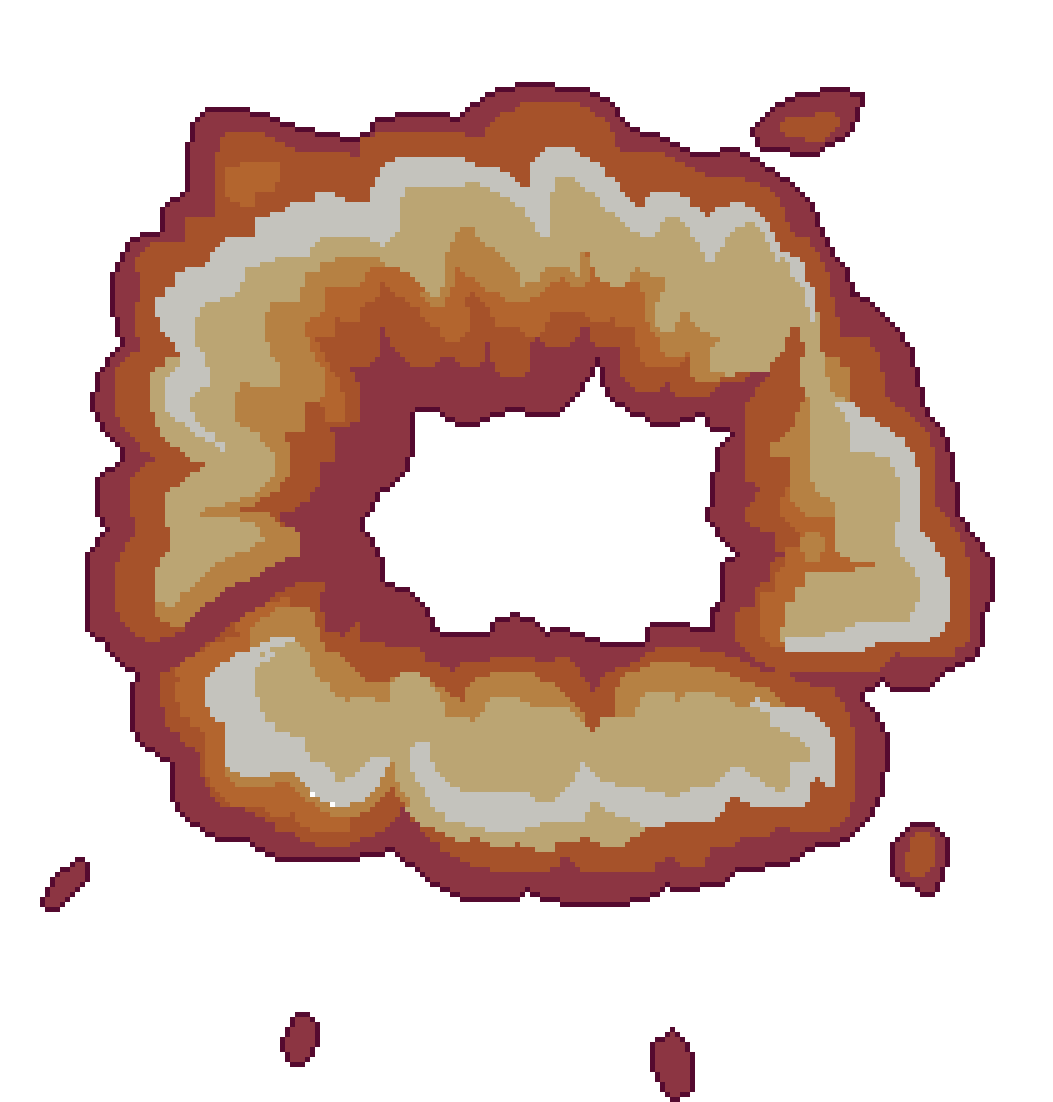
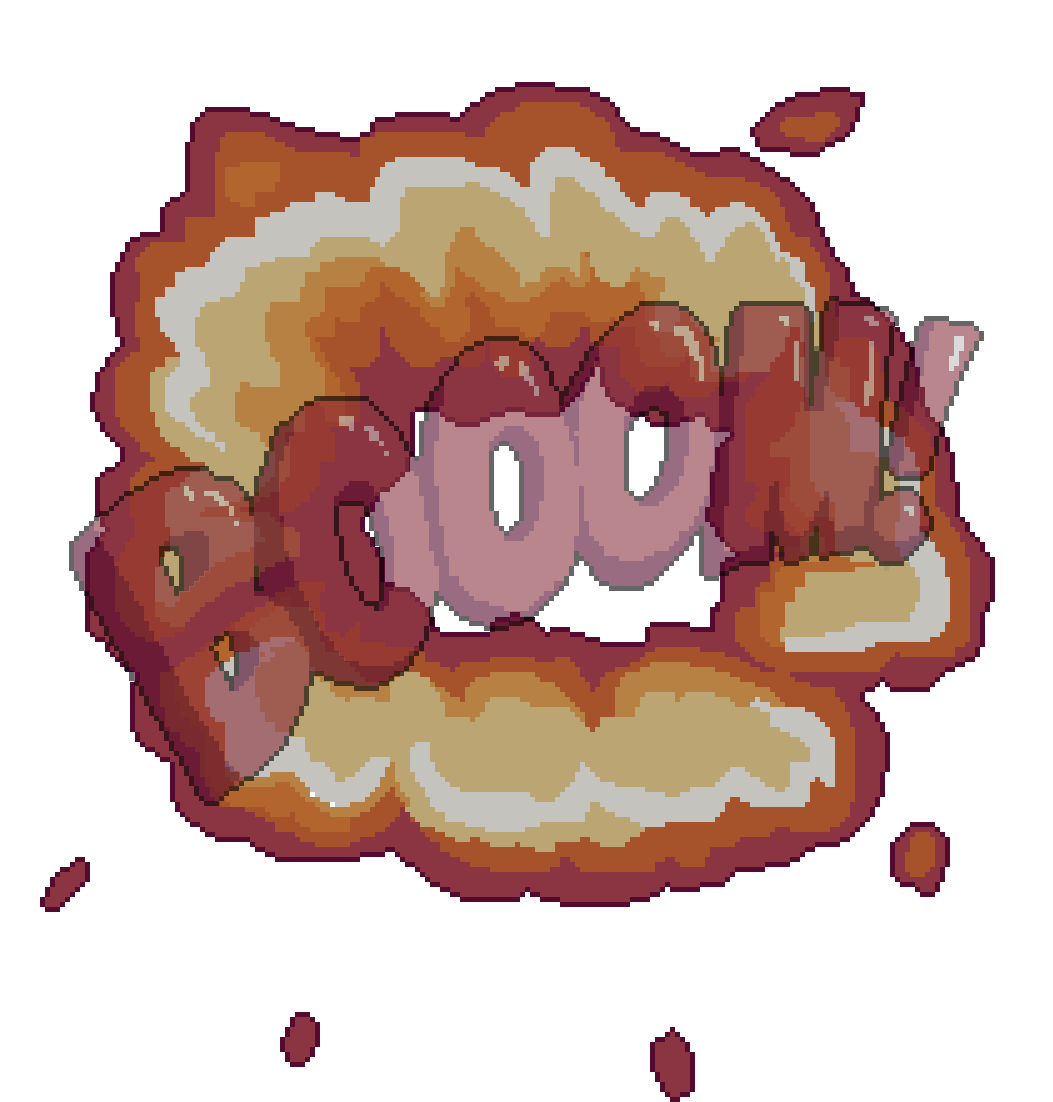
rules screen added & animations changed

Changed region(s): [[0.0608, 0.2468, 0.9421, 0.7405]]

diff --git a/index.html b/index.html
@@ -30,6 +30,9 @@
         <img class="button" src="images/button.png" alt="" onclick="game.run()">
     </div>
 </div>
+<div class="welcomescreen shown" onclick="game.welcomeScreenClosed = true;">
+    <img class="welcomescreen__content" src="images/rules-screen.png" alt="">
+</div>
 <script>
     //Aliases
     let Application = PIXI.Application,
@@ -62,7 +65,7 @@
         .add("images/bomb/1.png").add("images/bomb/2.png").add("images/bomb/3.png").add("images/bomb/4.png").add("images/bomb/5.png").add("images/bomb/6.png").add("images/bomb/7.png").add("images/bomb/8.png").add("images/bomb/9.png")
         .load(setup);
 
-    let beet, healthBar, sheet, enemies=[], barriers=[];
+    let beet, healthBar, sheet, enemies=[], barriers=[], coins=[];
     let left;
     let game = {
         on: true,
@@ -73,7 +76,8 @@
             // counter.toNull();
             location.reload();
         },
-        prewordShown: false
+        prewordShown: false,
+        welcomeScreenClosed: false
     };
     let metersCountStop = false;
 
@@ -130,7 +134,7 @@
 
 
         // coins settings
-        coins = new CoinsWord();
+
 
 
         // control settings
@@ -153,13 +157,17 @@
     }
 
     function checkCollision() {
-        coins.parts.forEach(function(c) {
-            if(hitRectangle(beet, c)) {
-                if (c.alpha) {counter.coinsPlus();}
-                c.alpha = 0;
-                return true;
-            }
-        });
+        for (let co of coins) {
+            co.parts.forEach(function (c) {
+                if (hitRectangle(beet, c)) {
+                    if (c.alpha) {
+                        counter.coinsPlus();
+                    }
+                    c.alpha = 0;
+                    return true;
+                }
+            });
+        }
         enemies.forEach(function(enemy) {
             if(hitRectangle(beet, enemy)) {
                 beet.playAnimation("bomb");
@@ -223,18 +231,28 @@
         checkCollision();
 
         for (let b of bg) { b.nextStep(beetXPlusFactor); }
-        coins.nextStep(beetXPlusFactor);
+        for (let c of coins) {
+            c.nextStep(beetXPlusFactor);
+        }
+
 
         if (!metersCountStop) { counter.metersPlus(); metersCountStop = true; setTimeout(() => {metersCountStop = false;}, 300) }
 
 
+        if (game.welcomeScreenClosed) {
+            document.querySelector(".welcomescreen").classList.remove("shown");
+            coins = [new CoinsWord()];
+
+            game.welcomeScreenClosed = false;
+        }
+
         if (game.prewordShown) {
-            coins = new CoinsRaw();
+            coins = [new CoinsRaw()];
             enemies.push(new Enemy());
             setTimeout(() => { enemies.push(new Enemy()); }, 700);
             setTimeout(() => { enemies.push(new Enemy()); }, 1400);
             barriers.push(new Barrier());
-            
+
             game.prewordShown = false;
 
         }

diff --git a/basic.css b/basic.css
@@ -21,7 +21,7 @@ canvas {
     font-weight: bold;
 }
 
-.winscreen {
+.winscreen, .welcomescreen {
     position: absolute;
     background-color: rgba(	25, 21, 34, 0.7 );
     width: 100%;
@@ -33,7 +33,7 @@ canvas {
     justify-content: center;
     pointer-events: none;
 }
-.winscreen.shown {
+.winscreen.shown, .welcomescreen.shown {
     transition: opacity 1s;
     opacity: 1;
     pointer-events: all;
@@ -47,6 +47,14 @@ canvas {
     text-align: center;
     font-size: 24px;
     font-weight: 800;
+}
+
+.welcomescreen__content {
+    display: block;
+    width: 700px;
+    max-width: 80%;
+    margin: auto;
+    cursor: pointer;
 }
 
 .winscreen h2 {

diff --git a/Coin.js b/Coin.js
@@ -68,14 +68,16 @@ class CoinsWord extends CoinsRaw {
         for (let raw in borschtWordMockup) {
             for (let cell in borschtWordMockup[raw]) {
                 if (borschtWordMockup[raw][cell]) {
-                    this.parts.push(new Coin(+cell, 80+raw*60));
+                    this.parts.push(new Coin(+cell-13, 80+raw*50));
                 }
             }
         }
     }
 
     whenRunAway() {
-        game.prewordShown = true;
+        if (this.parts.length > 15) {
+            game.prewordShown = true;
+        }
     }
 }
 

diff --git a/pixi/collision.js b/pixi/collision.js
@@ -20,9 +20,9 @@ function hitRectangle(r1, r2) {
 
     if (r1.type === "main") {
         r1.halfWidth = r1.width / 3;
-        r1.halfHeight = r1.height / 4;
+        r1.halfHeight = r1.height / 5;
         r1.centerX = r1.x;
-        r1.centerY = r1.y + r1.height / 20 - r1.halfHeight*0.3;
+        r1.centerY = r1.y - r1.halfHeight/2;
     }
 
     //Calculate the distance vector between the sprites
